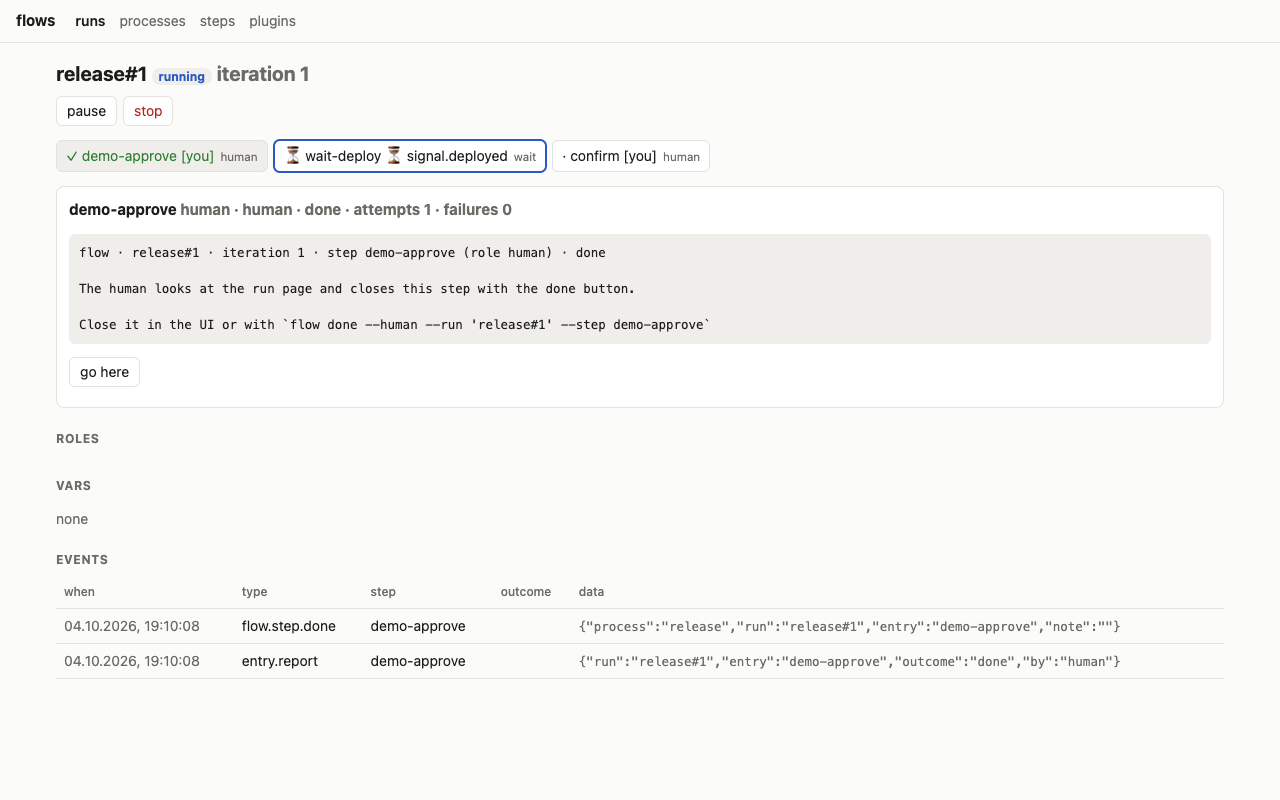
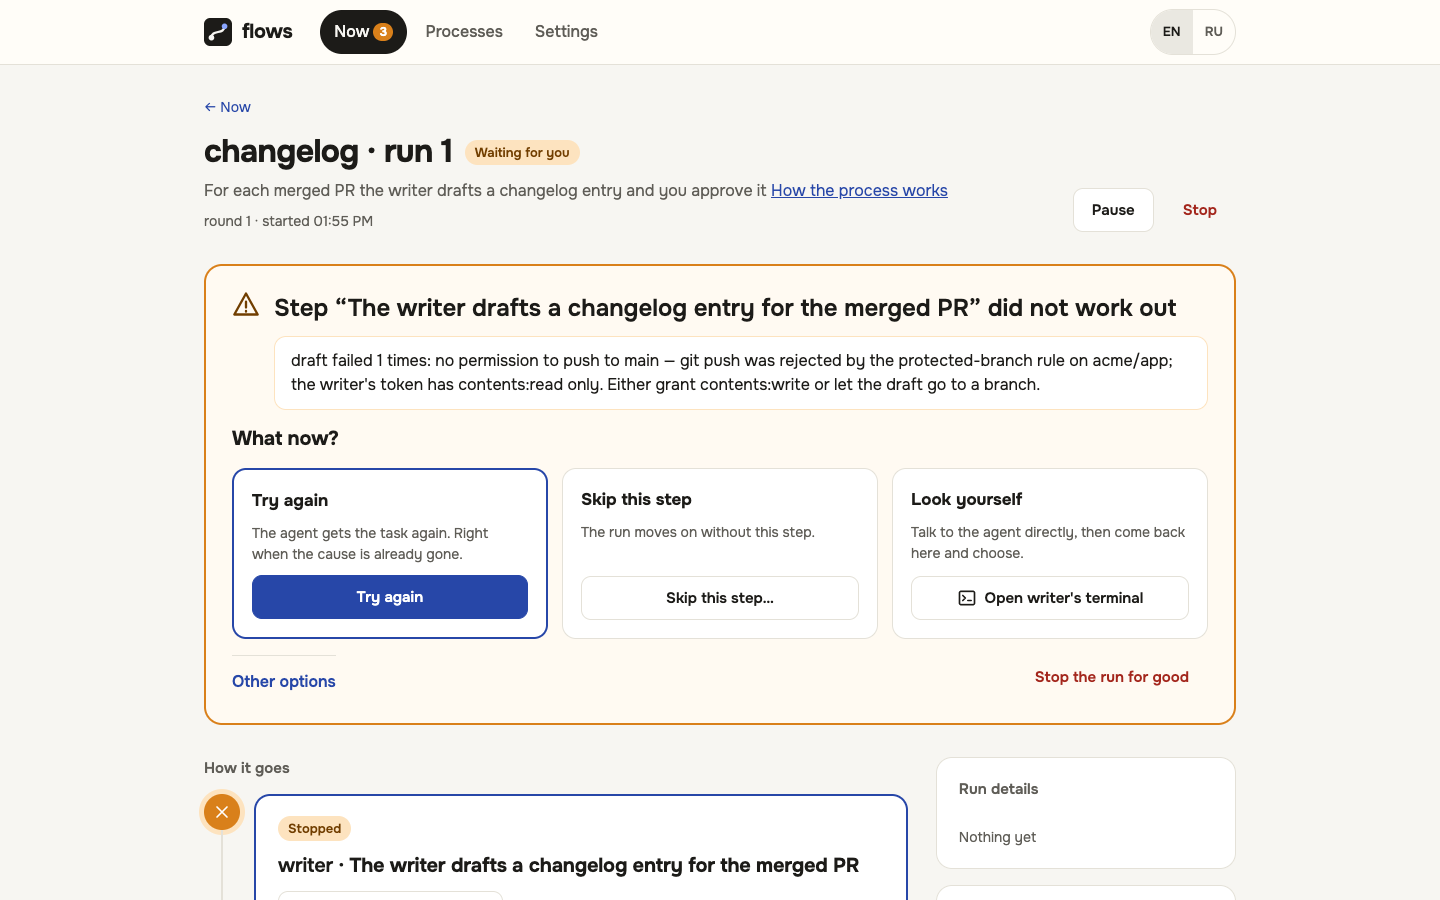
docs: the new web UI — words, screenshots, files, and how to write a step summary

diff --git a/README.md b/README.md
@@ -22,8 +22,9 @@ watch and take over at any time.
 - **flowd**, a local daemon that types each step into the right [agterm](https://github.com/umputun/agterm)
   session (spawning it when needed), clears or compacts between steps, never interrupts a turn,
   and reminds an agent that went quiet without reporting.
-- **A web UI** to watch runs, close human steps, override (done, skip, retry, goto), edit
-  processes and steps, and jump to an agent's terminal in one click.
+- **A web UI** that says what waits for you and what each run is doing, in English or Russian;
+  close human steps, retry, skip or step in by hand; read each process as a story; edit processes
+  and steps; jump to an agent's terminal in one click.
 - **Plugins** for event sources and actions, as waits or as triggers that start a process. `gh`
   is built in: required checks, reviews, and per repo merged PRs, newly opened or labelled PRs
   and CI runs on a branch.
@@ -76,10 +77,10 @@ flow start demo
    ```
 
    The agent gets a new line, reads `msg=hi` in `flow show` and reports done.
-4. The last step is yours. The Runs page lists `demo#1` under "Needs you"; open it and press
-   **done**. `flow ls --all` shows the run `done`.
+4. The last step is yours. The Now page lists `demo#1` under "Waiting for you"; open it and press
+   **Done**. `flow ls --all` shows the run `done`.
 
-The `agent ↗` button on the Runs page selects that agent's session in agterm.
+The **Agent terminal** button on a run selects that agent's session in agterm.
 
 ## A process at a glance
 
@@ -108,7 +109,7 @@ gets it. A failed review goes back to `task-implement`, red CI takes the `ci-fix
 returns to the wait, and the merge is a human step that GitHub's merge event closes. With
 `repeat: true` the next task starts when this one is merged.
 
-![Process editor](docs/assets/ui-process.png)
+![A process](docs/assets/ui-process.png)
 
 ## Agents
 

diff --git a/docs/processes.md b/docs/processes.md
@@ -30,7 +30,7 @@ Review the new commits in {{vars.worktree}} against "{{vars.task}}". Run the tes
 Something to fix: `flow failed --note "<what to fix>"`. Good: `flow done --note "<verdict>"`.
 ```
 
-- `summary` (required, the only frontmatter key): one line shown in the UI and the run's strip.
+- `summary` (required, the only frontmatter key): the headline a person reads for that step in the UI. Write it as a plain sentence saying who does what ("The dev fixes red CI"), not a label.
 - The body is the prompt an agent reads with `flow show`. It must not be empty.
 
 Placeholders, substituted when the step starts (`src/template.ts`, `renderData` in `src/engine.ts`):
@@ -116,7 +116,7 @@ Each item of `steps:` is one of these kinds:
 | Kind | Write | What happens |
 |---|---|---|
 | agent step | `{step: <id>, role: <role>}` | The role's session gets the nudge line; the agent reports with `flow done` / `flow failed`. |
-| human step | `{step: <id>, role: human}` | Shown in the UI under "Needs you"; closed there or with `flow done --human`. |
+| human step | `{step: <id>, role: human}` | Shown in the UI under "Waiting for you"; closed there or with `flow done --human`. |
 | session action | `{do: clear, role: <role>}`, `{do: compact, role: <role>}` | flowd types `/clear` or `/compact` into the role's session. |
 | typed line | `{do: type, role: <role>, text: "..."}` | flowd types a literal line (a template) into the role's session. |
 | plugin action | `{do: <plugin>.<action>, with: {...}}` | flowd calls the plugin; a throw fails the entry. No action ships with flows yet. |

diff --git a/docs/architecture.md b/docs/architecture.md
@@ -36,7 +36,14 @@ stripping); state is in `node:sqlite`. The only runtime dependencies are `yaml` 
 | `src/check.ts` | `flow check`: offline validation with the same loader and plugins. |
 | `src/install.ts` | `flow install`: launchd plist, hooks, skill links. |
 | `plugins/gh.ts` | The built-in GitHub plugin. |
-| `ui/index.html`, `ui/app.js`, `ui/style.css` | The web UI: plain browser JavaScript, no build. |
+| `ui/index.html`, `ui/app.js`, `ui/style.css` | The web UI: plain browser JavaScript, no build. `app.js` holds the shell and screens. |
+| `ui/text.js` | Every UI string in English and Russian, and the rules that turn a run into words. Tested by `test/ui-text.test.ts`. |
+| `ui/lib.js` | Fetching, live data, routing and icons. |
+| `ui/editors.js` | The process and step editors. |
+| `ui/icons/`, `ui/favicon.ico`, `ui/manifest.webmanifest` | App icons, the attention favicon and the web manifest. |
+| `ui/vendor/fonts/` | The Onest font (OFL). |
+| `scripts/icons.sh` | Regenerates the raster icons from the SVGs (needs `rsvg-convert` and ImageMagick). |
+| `scripts/ui-preview.ts` | Runs a throwaway flowd with generic data and a fake agterm on port 7421, for looking at the UI. |
 | `ui/vendor/preact-htm.js` | Preact and htm, vendored as one ES module. |
 
 ## An event's path

diff --git a/skills/flow-author/SKILL.md b/skills/flow-author/SKILL.md
@@ -20,7 +20,7 @@ From the installed copy of this skill, the repo is
 
 1. **Look first.** `ls $FLOWS_HOME/steps $FLOWS_HOME/processes`; read the process you are changing.
    Reuse a step whose prompt already fits.
-2. **Write the steps.** Frontmatter `summary:` (one line, shown in the UI), then the prompt. Talk
+2. **Write the steps.** Frontmatter `summary:` (the headline a person reads for the step in the UI: a plain sentence saying who does what, "The dev fixes red CI", not a label), then the prompt. Talk
    to the agent directly, say what "done" means, and end with how to report:
    `flow done --note "…"`, or `flow failed --note "…"`. A value a later step needs: tell the agent
    to `flow set key=value`, and read it later as `{{vars.key}}`.

diff --git a/docs/cli.md b/docs/cli.md
@@ -61,7 +61,7 @@ viewer) and will come back to this step. Prints `waiting: <note>`. Without it, f
 agent that ends its turn without reporting and stops the run after the third such turn.
 
 - `--note` is required: what you are waiting for. It shows in the UI, `flow ls` and `flow show`.
-- `--human` says a person has to act; the run is then listed under "Needs you".
+- `--human` says a person has to act; the run is then listed under "Waiting for you".
 - The wait covers the end of the current turn. When your next turn begins it is used up: finish
   with `flow done` or `flow failed`, or run `flow wait` again with a fresh note.
 - Refused like `flow done`: only your own active agent step, after its line reached you.

diff --git a/docs/concepts.md b/docs/concepts.md
@@ -110,7 +110,7 @@ report. The rules (`src/daemon.ts`, `src/agterm.ts`, `src/engine.ts`):
   wait up.
 - A wait shows on the run: `waiting since <time>: <note>` in the run page's entry panel and in
   `flow show`, `waiting: <note>` in the runs list and `flow ls`. With `--human` the wait is on a
-  person and the run is listed under "Needs you".
+  person and the run is listed under "Waiting for you".
 - A line that reaches an agent must start its turn. If the session has not gone `active` 2 minutes
   after a nudge or a reminder was delivered (and the step has no `flow wait`), the run stops for
   the user: "the agent has not started 2 min after its line was delivered". Before spawning

diff --git a/examples/steps/changelog-approve.md b/examples/steps/changelog-approve.md
@@ -2,4 +2,4 @@
 summary: A human reviews the changelog draft and commits it
 ---
 A human reads the new CHANGELOG.md entry for {{vars.pr}} in the repo, edits it if needed, commits
-it, and closes this step with the done button.
+it, and closes this step with the **Done** button.

diff --git a/docs/specs/2026-10-06-plain-ui-design.md b/docs/specs/2026-10-06-plain-ui-design.md
@@ -1,6 +1,6 @@
 # A web UI anyone can follow: see what runs, see what needs you, act
 
-Status: design, awaiting approval.
+Status: implemented 2026-10-06 (main 194c914).
 Mockups: a private Claude Design canvas — boards Main, Run, RunNeedsYou, Process, Brand.
 
 ## Problem

diff --git a/examples/steps/demo-approve.md b/examples/steps/demo-approve.md
@@ -1,4 +1,4 @@
 ---
 summary: The human checks the run page and presses done
 ---
-The human looks at the run page and closes this step with the done button.
+The human looks at the run page and closes this step with the **Done** button.
